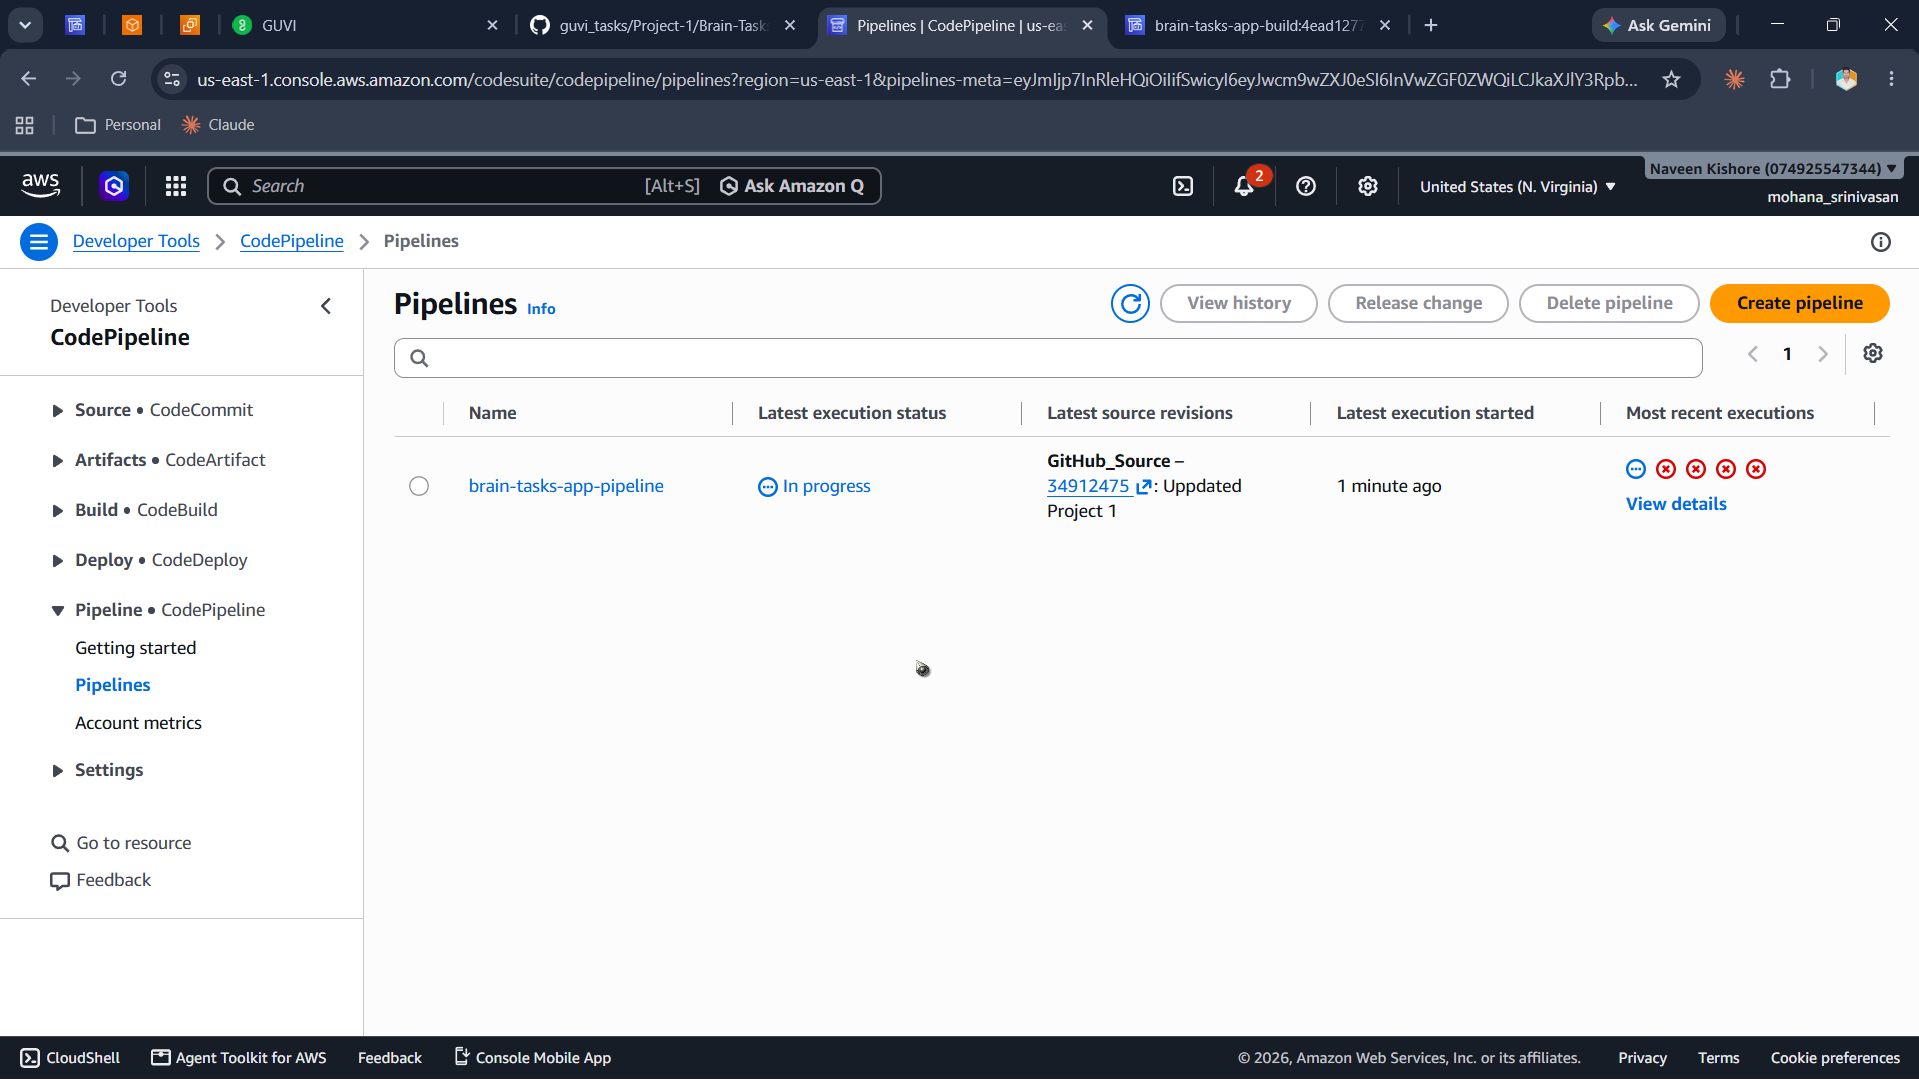
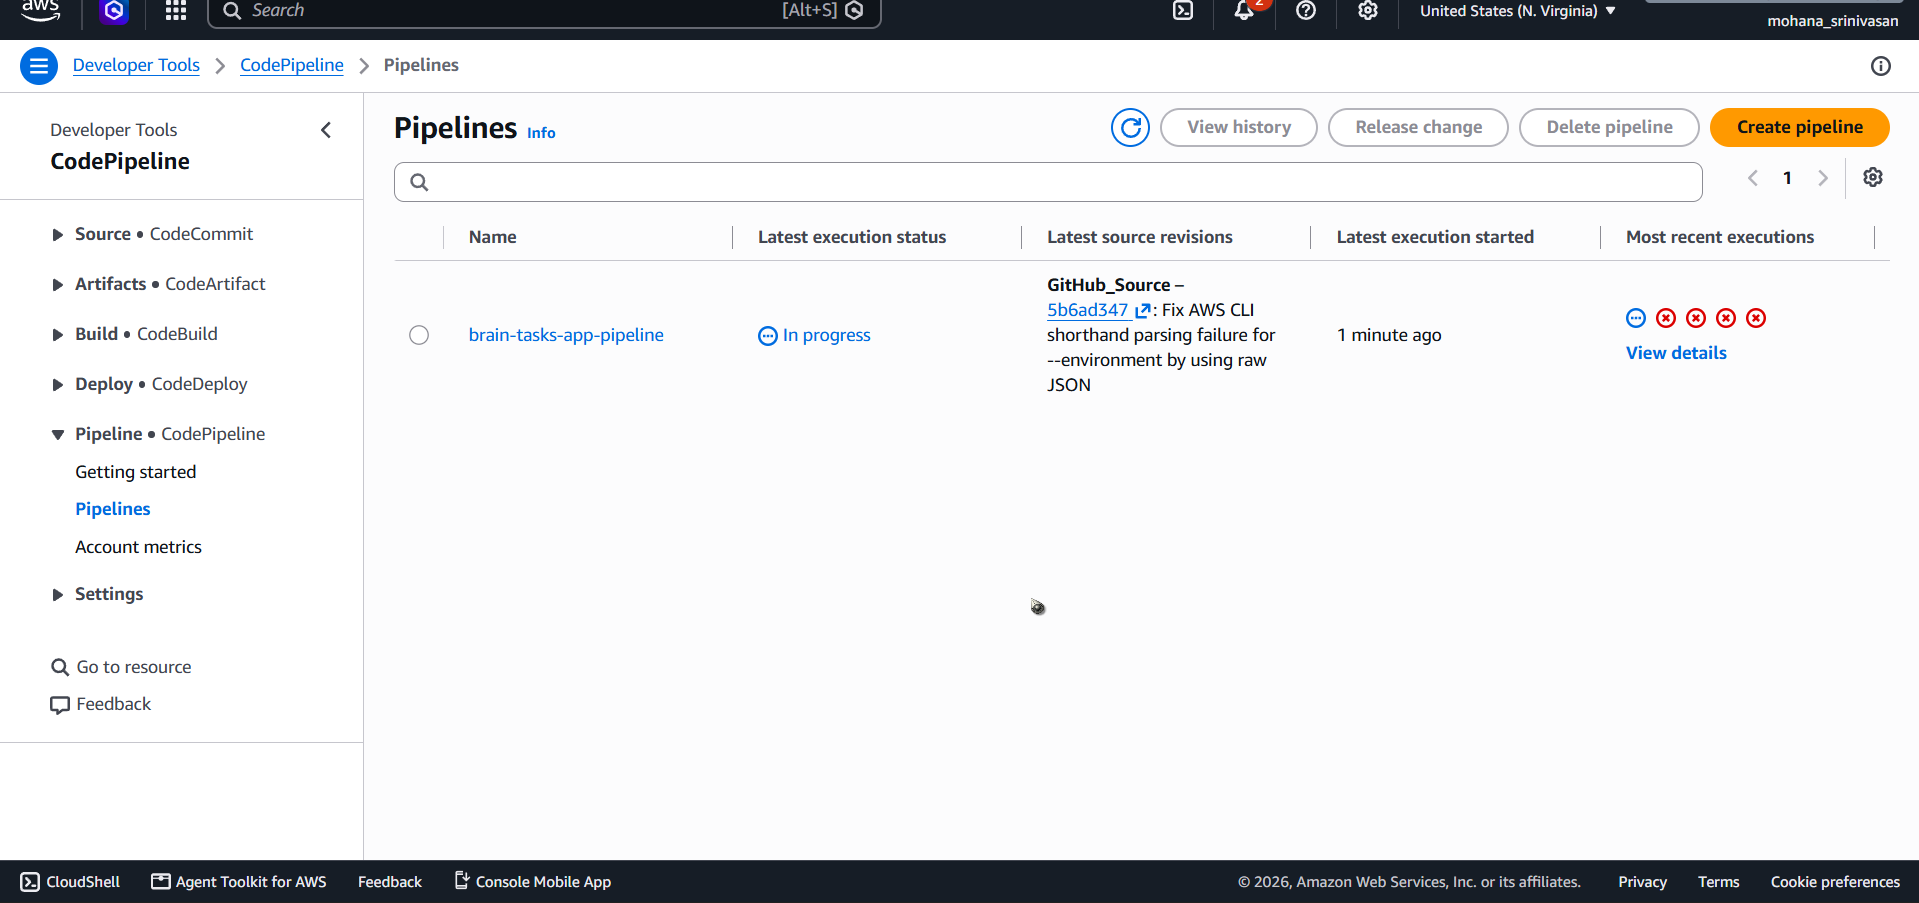
Updated Project 1

diff --git a/Project-1/Brain-Tasks-App/README.md b/Project-1/Brain-Tasks-App/README.md
@@ -1,6 +1,27 @@
 # Brain Tasks App - Production Deployment
 
-A modern React task management application deployed on AWS EKS with a full CI/CD pipeline using AWS CodePipeline and CodeBuild (build + deploy stages). Every AWS resource name/setting is centralized in one `.env` file - see **[DEPLOYMENT_GUIDE.md](./DEPLOYMENT_GUIDE.md)** for the full step-by-step setup.
+A React task management application deployed on AWS EKS with a full CI/CD pipeline: **GitHub → CodePipeline → CodeBuild (build) → CodeBuild (deploy) → EKS**. Every AWS resource name/setting is centralized in one `.env` file - see **[DEPLOYMENT_GUIDE.md](./DEPLOYMENT_GUIDE.md)** for the full step-by-step setup.
+
+## ✅ Live Deployment (verified)
+
+The pipeline has been run end-to-end and the app is live and responding.
+
+| | |
+|---|---|
+| **App URL** | http://aec0476e2c4434817b96dbde314cfb8a-1180093499.us-east-1.elb.amazonaws.com |
+| **Load Balancer ARN** | `arn:aws:elasticloadbalancing:us-east-1:074925547344:loadbalancer/aec0476e2c4434817b96dbde314cfb8a` |
+| **Load Balancer type** | Classic Load Balancer (default for a plain `type: LoadBalancer` Service on EKS - no AWS Load Balancer Controller installed) |
+| **HTTP check** | `200 OK`, serving the built React app |
+| **EKS cluster** | `brain-tasks-cluster` (us-east-1), nodes `Ready` |
+| **Pods** | 3/3 `Running`, rollout complete |
+| **Pipeline stages** | Source ✅ Build ✅ Deploy ✅ (all `Succeeded`) |
+
+Verify it yourself:
+```bash
+kubectl get pods -n brain-tasks -l app=brain-tasks-app
+kubectl get service brain-tasks-app-service -n brain-tasks
+curl -I http://aec0476e2c4434817b96dbde314cfb8a-1180093499.us-east-1.elb.amazonaws.com/
+```
 
 ## 🚀 Application Overview
 
@@ -22,12 +43,12 @@ The Brain Tasks App is a responsive task management application built with React
 - **Orchestration**: Kubernetes (EKS)
 - **CI/CD**: AWS CodePipeline, CodeBuild (Build stage + Deploy stage)
 - **Container Registry**: AWS ECR
-- **Load Balancer**: AWS Application Load Balancer
+- **Load Balancer**: Classic Load Balancer (Kubernetes `Service` of `type: LoadBalancer`)
 
 ### Infrastructure
-- **EKS Cluster**: brain-tasks-cluster (us-east-1)
-- **Node Group**: t3.medium instances (1-3 nodes)
-- **Namespace**: brain-tasks
+- **EKS Cluster**: `brain-tasks-cluster` (us-east-1)
+- **Node Group**: `brain-tasks-nodes`, t3.medium instances (min 1 / desired 2 / max 3)
+- **Namespace**: `brain-tasks`
 - **Service Type**: LoadBalancer
 - **Replicas**: 3 pods for high availability
 
@@ -42,18 +63,14 @@ The Brain Tasks App is a responsive task management application built with React
 ### AWS Deployment
 - AWS CLI configured with appropriate permissions
 - kubectl
-- AWS IAM permissions for:
-  - ECR (Elastic Container Registry)
-  - EKS (Elastic Kubernetes Service)
-  - CodeBuild, CodeDeploy, CodePipeline
-  - IAM roles for EKS cluster and nodes
+- AWS IAM permissions for: ECR, EKS, CodeBuild, CodePipeline, IAM (to create the roles the scripts need)
 
 ## 🛠 Local Development Setup
 
 1. **Clone the repository**
    ```bash
-   git clone <repository-url>
-   cd Brain-Tasks-App
+   git clone https://github.com/Mohan6201/guvi_tasks.git
+   cd guvi_tasks/Project-1/Brain-Tasks-App
    ```
 
 2. **Install dependencies**
@@ -93,8 +110,7 @@ The Brain Tasks App is a responsive task management application built with React
 
 ## ☁ AWS Deployment
 
-Everything is driven by `.env` (`cp .env.example .env`, fill in values).
-Full walkthrough with explanations: **[DEPLOYMENT_GUIDE.md](./DEPLOYMENT_GUIDE.md)**.
+Everything is driven by `.env` (`cp .env.example .env`, fill in values). This is exactly the sequence that produced the live deployment above.
 
 ```bash
 ./iam-setup.sh          # 1. IAM roles for EKS/CodeBuild/CodePipeline
@@ -104,7 +120,10 @@ Full walkthrough with explanations: **[DEPLOYMENT_GUIDE.md](./DEPLOYMENT_GUIDE.m
 # 5. one-time manual step: create a GitHub connection in the console,
 #    paste its ARN into CODESTAR_CONNECTION_ARN in .env
 ./codepipeline-setup.sh  # 6. Source -> Build -> Deploy pipeline
+aws codepipeline start-pipeline-execution --name brain-tasks-app-pipeline --region us-east-1
 ```
+
+Full walkthrough with explanations: **[DEPLOYMENT_GUIDE.md](./DEPLOYMENT_GUIDE.md)**.
 
 Manual/local Kubernetes deploy (no pipeline needed):
 ```bash
@@ -113,14 +132,11 @@ Manual/local Kubernetes deploy (no pipeline needed):
 
 ## 🔄 CI/CD Pipeline
 
-### Pipeline Stages
+### Pipeline Stages (`brain-tasks-app-pipeline`)
 
-1. **Source**: GitHub, via a CodeStar Connection
-2. **Build**: AWS CodeBuild (`buildspec.yml`) - builds the Docker image
-   and pushes it to ECR
-3. **Deploy**: AWS CodeBuild (`buildspec-deploy.yml`) - renders the k8s
-   manifests with the built image, `kubectl apply`s them to EKS, waits
-   for rollout, prints the LoadBalancer URL
+1. **Source**: GitHub (`Mohan6201/guvi_tasks`, branch `main`), via a CodeStar Connection
+2. **Build**: AWS CodeBuild project `brain-tasks-app-build` (`buildspec.yml`) - builds the Docker image and pushes it to ECR
+3. **Deploy**: AWS CodeBuild project `brain-tasks-app-deploy` (`buildspec-deploy.yml`) - renders the k8s manifests with the built image, `kubectl apply`s them to EKS, waits for rollout, prints the LoadBalancer URL
 
 > CodeDeploy does not support EKS as a deployment target, so the Deploy
 > stage is a second CodeBuild project rather than CodeDeploy/`appspec.yml`
@@ -131,8 +147,7 @@ Manual/local Kubernetes deploy (no pipeline needed):
 - **Install Phase**: Verifies Docker/AWS CLI (already on the managed image)
 - **Pre-build Phase**: Logs into ECR
 - **Build Phase**: `npm run build`, then builds and tags the Docker image
-- **Post-build Phase**: Pushes image to ECR, writes `image-uri.txt` /
-  `imagedefinitions.json` artifacts for the Deploy stage
+- **Post-build Phase**: Pushes image to ECR, writes `image-uri.txt` / `imagedefinitions.json` / `buildspec-deploy.yml` as artifacts for the Deploy stage
 
 ### Deploy Process (buildspec-deploy.yml)
 - Installs `kubectl`, points it at the EKS cluster from `.env`
@@ -145,17 +160,17 @@ Manual/local Kubernetes deploy (no pipeline needed):
 ```
 Brain-Tasks-App/
 ├── src/                    # React source code
-│   ├── App.jsx            # Main application component
-│   ├── App.css            # Application styles
-│   ├── main.jsx           # Application entry point
-│   └── index.css          # Global styles
+│   ├── App.jsx             # Main application component
+│   ├── App.css             # Application styles
+│   ├── main.jsx            # Application entry point
+│   └── index.css           # Global styles
 ├── k8s/                    # Kubernetes manifests (${VAR} templates)
-│   ├── namespace.yaml     # Namespace template
-│   ├── deployment.yaml    # Deployment template
-│   ├── service.yaml       # LoadBalancer service template
-│   ├── render.sh          # Renders templates from .env -> k8s/rendered/
-│   ├── deploy.sh          # Manual local deploy (render + apply + wait)
-│   └── ecr-secret.yaml    # Deprecated - secret now created imperatively
+│   ├── namespace.yaml      # Namespace template
+│   ├── deployment.yaml     # Deployment template
+│   ├── service.yaml        # LoadBalancer service template
+│   ├── render.sh           # Renders templates from .env -> k8s/rendered/
+│   ├── deploy.sh           # Manual local deploy (render + apply + wait)
+│   └── ecr-secret.yaml     # Deprecated - secret now created imperatively
 ├── scripts/                # Reference only (see appspec.yml note below)
 │   ├── before_install.sh
 │   ├── after_install.sh
@@ -190,7 +205,7 @@ Brain-Tasks-App/
 - AWS CodeBuild configuration
 - Multi-stage build process
 - ECR integration
-- Artifact generation
+- Artifact generation (including `buildspec-deploy.yml` for the Deploy stage)
 
 ### appspec.yml (deprecated)
 - CodeDeploy does not support EKS as a deployment platform, so this file
@@ -200,9 +215,9 @@ Brain-Tasks-App/
 ## 📊 Monitoring and Logging
 
 ### CloudWatch Integration
-- Build logs in CodeBuild
-- Deployment logs in CodeDeploy
-- Application logs via CloudWatch agent (optional)
+- Build stage logs: CloudWatch Logs group `/aws/codebuild/brain-tasks-app` (stream per build, project `brain-tasks-app-build`)
+- Deploy stage logs: same log group, project `brain-tasks-app-deploy`
+- Application/pod logs: `kubectl logs` (see below); not shipped to CloudWatch unless Container Insights/Fluent Bit is added
 
 ### Kubernetes Monitoring
 ```bash
@@ -232,12 +247,17 @@ kubectl describe service brain-tasks-app-service -n brain-tasks
 3. **Load Balancer Not Accessible**
    - Check security group configuration
    - Verify service type is LoadBalancer
-   - Wait for LB provisioning (5-10 minutes)
+   - Wait for LB provisioning (a few minutes for DNS to propagate)
 
 4. **Pods Not Starting**
    - Check image pull policy and ECR credentials
    - Verify resource limits
    - Check node group capacity
+
+5. **CodeBuild `--environment` CLI parsing errors (Windows/Git Bash)**
+   - Two Windows-specific gotchas hit during setup, both already fixed in the scripts:
+     - Git Bash (MSYS) rewrites `/`-leading arguments (e.g. CloudWatch log group `/aws/codebuild/...`) into Windows paths - scripts now `export MSYS_NO_PATHCONV=1` internally.
+     - The AWS CLI's shorthand parser can't reliably parse a nested list-of-objects (`environmentVariables=[...]`) inside `--environment`; scripts now pass `--environment` as raw JSON instead of shorthand.
 
 ### Debug Commands
 ```bash
@@ -249,6 +269,10 @@ kubectl describe pods -n brain-tasks -l app=brain-tasks-app
 
 # Check events
 kubectl get events -n brain-tasks --sort-by=.metadata.creationTimestamp
+
+# Check pipeline/build status
+aws codepipeline get-pipeline-state --name brain-tasks-app-pipeline --region us-east-1
+aws codebuild list-builds-for-project --project-name brain-tasks-app-build --region us-east-1
 ```
 
 ## 📈 Performance Considerations
@@ -260,55 +284,34 @@ kubectl get events -n brain-tasks --sort-by=.metadata.creationTimestamp
 
 ### Scaling
 - Horizontal Pod Autoscaler can be added
-- Node group can scale from 1-3 nodes
+- Node group can scale from 1-3 nodes (currently running 2)
 - Load Balancer handles traffic distribution
 
 ## 🔒 Security
 
 - ECR repository with image scanning enabled
-- IAM roles for EKS cluster and nodes
+- IAM roles for EKS cluster, nodes, CodeBuild, and CodePipeline (least-privilege managed policies, created by `iam-setup.sh`)
+- AWS credentials never stored in `.env` or the repo - local scripts use the AWS CLI's configured identity, CodeBuild uses its IAM service role
 - Network policies (can be added)
-- Secrets management via Kubernetes secrets
-
-## 📝 Deployment Commands Summary
-
-```bash
-# 1. Local development
-npm install && npm run dev
-
-# 2. Docker build and test
-docker build -t brain-tasks-app:latest .
-docker run -d -p 8080:80 brain-tasks-app:latest
-
-# 3. AWS ECR setup
-./ecr-setup.sh
-
-# 4. AWS EKS setup
-./eks-setup.sh
-
-# 5. Deploy to Kubernetes
-kubectl apply -f k8s/namespace.yaml
-kubectl apply -f k8s/deployment.yaml
-kubectl apply -f k8s/service.yaml
-
-# 6. Check deployment
-kubectl get pods -n brain-tasks
-kubectl get services -n brain-tasks
-```
+- Secrets management via Kubernetes secrets (ECR pull secret refreshed on every deploy, since ECR tokens expire every 12h)
 
 ## 🎯 Load Balancer Access
 
-After successful deployment, the application will be accessible via the AWS Load Balancer URL:
-
 ```bash
 kubectl get service brain-tasks-app-service -n brain-tasks -o jsonpath='{.status.loadBalancer.ingress[0].hostname}'
+```
+
+To get the Load Balancer ARN (needed for submission), match the hostname against the classic ELB API:
+```bash
+aws elb describe-load-balancers --region us-east-1 --query "LoadBalancerDescriptions[].LoadBalancerName" --output text
+# then: arn:aws:elasticloadbalancing:<region>:<account-id>:loadbalancer/<name>
 ```
 
 ## 📞 Support
 
 For issues and questions:
 1. Check the troubleshooting section
-2. Review CloudWatch logs
+2. Review CloudWatch logs (`/aws/codebuild/brain-tasks-app`)
 3. Verify AWS IAM permissions
 4. Check Kubernetes events and pod status
 
